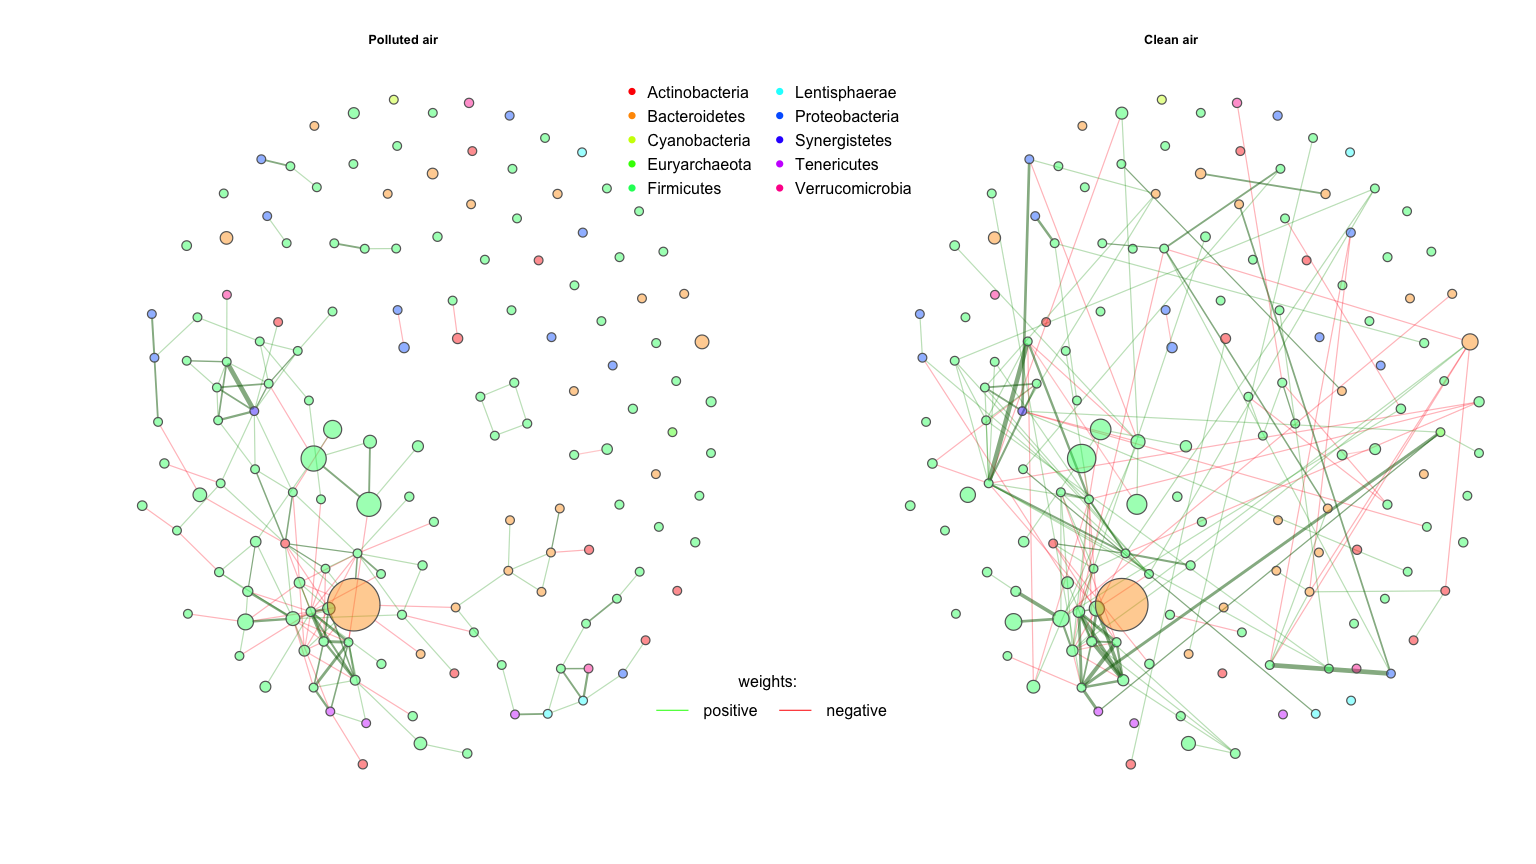
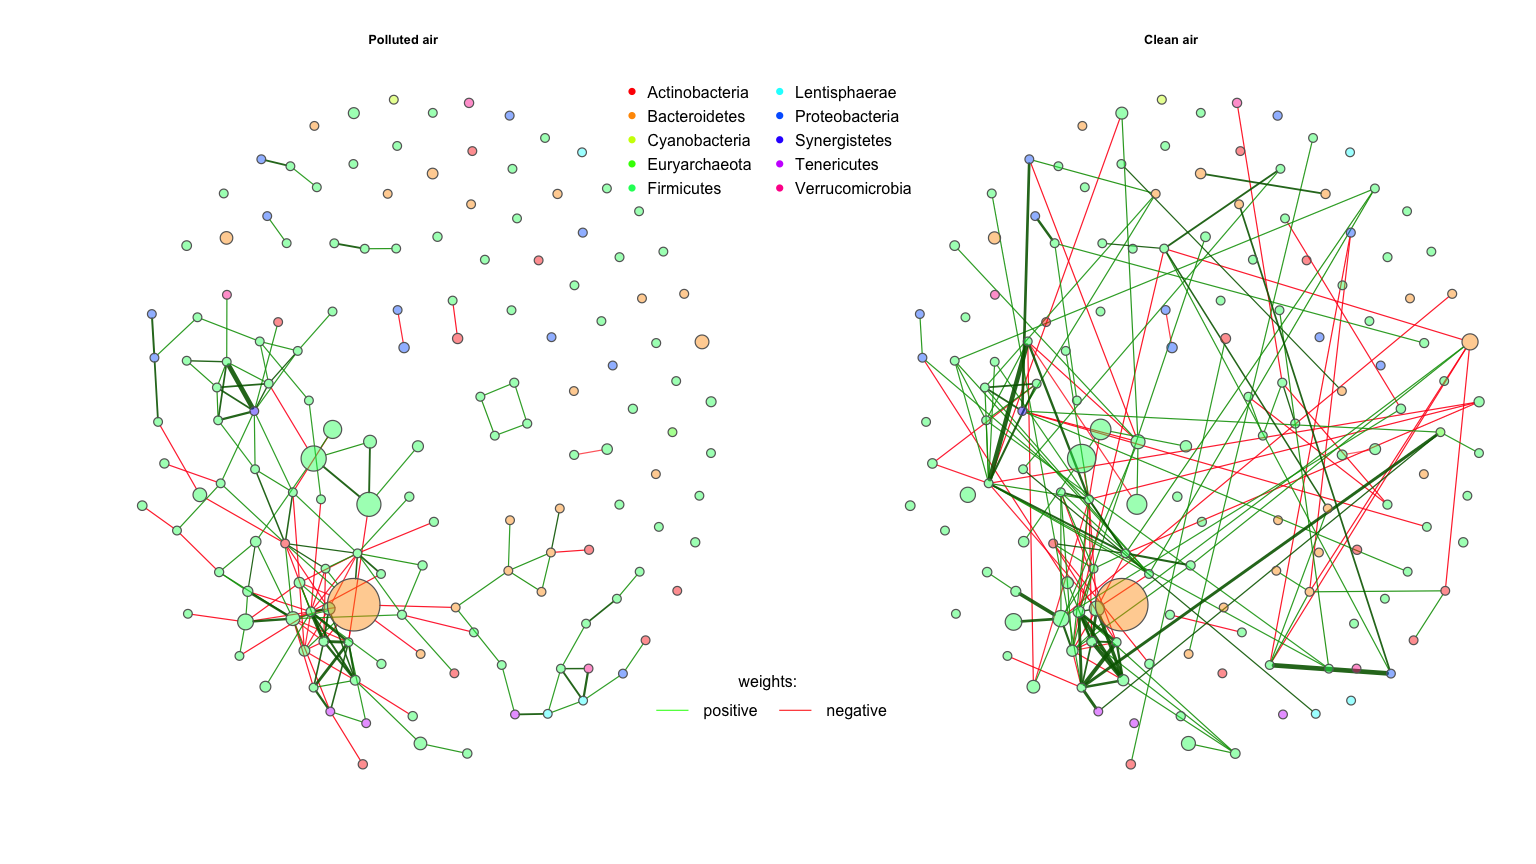
mark edges stronger

diff --git a/5_networks/5.2.1_Networks_viz_Gen.md b/5_networks/5.2.1_Networks_viz_Gen.md
@@ -53,7 +53,7 @@ plot(props_W,
      featVecCol = phyl_ps_prune, nodeColor = "feature",nodeTransp = 55,
      borderCol = "gray40", highlightHubs = FALSE, nodeSize = "normCounts", 
      nodeSizeSpread = 1, cexNodes = 5, cexTitle = .8,
-     edgeTranspLow = 70, edgeTranspHigh = 50,
+     edgeTranspLow = 10, edgeTranspHigh = 10,
      # rmSingles = "inboth",
      mar = c(3,5,3,2), groupNames = c("Polluted air", "Clean air"))
 legend("top", 
@@ -196,17 +196,16 @@ legend(x=.1, y=-1.1, legend=legend_cats$size_text, pt.cex=legend_cats$size_circl
 ``` r
 names_clust <- as.character(names(which(props_W$clustering$clust1 == 3)))
 # labels_phyl <- substr(as.character(phyl_ps_prune[names_clust]), 1, 3)
-col_module <- unique(plot_cluster$q1$Arguments$color[names_clust],
-                     plot_cluster$q2$Arguments$color[names_clust])
+col_module <- unique(plot_cluster$nodecolor$nodecol1[names_clust],
+                     plot_cluster$nodecolor$nodecol2[names_clust])
 
 plot(props_W, 
      sameLayout = TRUE, layoutGroup = 1, 
      labels = list(props_W$clustering$clust1[names_clust], props_W$clustering$clust2[names_clust]), 
      labelFont = 1, cexLabels = 1.5,
      nodeColor = "cluster",
-     colorVec =  col_module,
-     sameClustCol = FALSE,
-     nodeTransp = 40, 
+     colorVec = col,
+     sameColThresh = 20,
      borderCol = "gray40", highlightHubs = FALSE,
      nodeSize = "fix", cexNodes = 1, 
      nodeFilter = "names",
